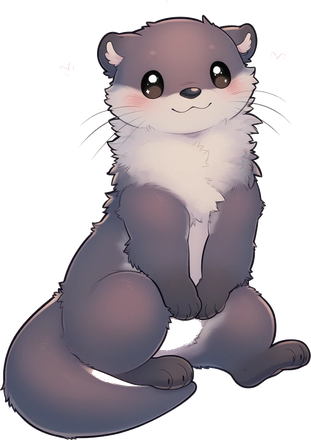
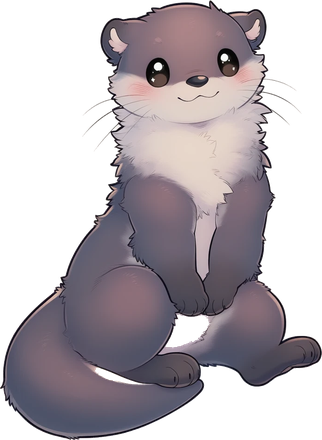
광장 임베드 버그 수정 + 배경/하트 정리
- 광장 임베드 상태에서 '궤도 진입하러 가기' 클릭 시 iframe 안에서 main이 다시 열려
  메뉴가 이중으로 뜨던 버그 수정 (postMessage로 부모 패널 전환 요청)
- main: 임베드 광장의 패널 전환 메시지 수신 핸들러 추가
- 광장 원형 궤도 배경(.bg-rings) 제거
- 수달 이미지의 떠다니는 하트/잔점 제거 (가장 큰 덩어리만 유지)

https://claude.ai/code/session_01DDUtUfpH5oQs68sjn4CaY4

diff --git a/lounge.html b/lounge.html
@@ -36,19 +36,6 @@
             touch-action: manipulation;
         }
 
-        /* 추상 배경 — 동심원 궤도 라인 */
-        .bg-rings {
-            position: fixed; top: 50%; left: 50%;
-            width: 1400px; height: 1400px;
-            transform: translate(-50%, -50%);
-            border-radius: 50%;
-            background:
-                radial-gradient(circle, transparent 29.9%, rgba(255,159,67,0.04) 30%, transparent 30.4%),
-                radial-gradient(circle, transparent 49.9%, rgba(255,159,67,0.035) 50%, transparent 50.4%),
-                radial-gradient(circle, transparent 69.9%, rgba(255,159,67,0.03) 70%, transparent 70.4%),
-                radial-gradient(circle, transparent 89.9%, rgba(255,159,67,0.025) 90%, transparent 90.4%);
-            pointer-events: none; z-index: -1;
-        }
         .bg-glow {
             position: fixed; top: -10%; right: -10%;
             width: 600px; height: 600px;
@@ -260,7 +247,6 @@
     <script src="effects.js" defer></script>
 </head>
 <body>
-    <div class="bg-rings"></div>
     <div class="bg-glow"></div>
 
     <nav>
@@ -307,6 +293,13 @@
 
     var nickname = localStorage.getItem('orbit_nickname');
     var currentOrbit = 'all';
+    var EMBED = document.documentElement.classList.contains('embed');
+
+    // 임베드(메인 패널 안)일 땐 부모에게 홈 패널 전환을 요청, 단독 페이지일 땐 일반 이동
+    function goJoin(){
+        if(EMBED && window.parent !== window){ window.parent.postMessage({ orbit: 'goHome' }, '*'); }
+        else { location.href = 'main.html'; }
+    }
 
     // 익명 리액션 식별용 기기 ID
     var deviceId = localStorage.getItem('orbit_device_id');
@@ -345,7 +338,7 @@
             card.innerHTML =
                 '<div class="need-join">' +
                 '<p>궤도에 진입하면 궤적을 남길 수 있어요</p>' +
-                '<button class="btn-go-join" onclick="location.href=\'main.html\'">궤도 진입하러 가기</button>' +
+                '<button class="btn-go-join" onclick="goJoin()">궤도 진입하러 가기</button>' +
                 '</div>';
             return;
         }

diff --git a/main.html b/main.html
@@ -509,6 +509,16 @@
         });
         window.addEventListener('hashchange', function(){ switchPanel(location.hash.slice(1)); });
 
+        // 임베드된 광장(iframe)에서 보내는 패널 전환 요청 수신
+        window.addEventListener('message', function(ev){
+            if(ev.origin !== window.location.origin) return;
+            if(ev.data && ev.data.orbit === 'goHome'){
+                switchPanel('home');
+                var inp = document.getElementById('nicknameInput');
+                if(inp) inp.focus();
+            }
+        });
+
         // 프로필 칩 — 가입 상태 반영
         var nick = localStorage.getItem('orbit_nickname');
         var chip = document.getElementById('profileChip');
